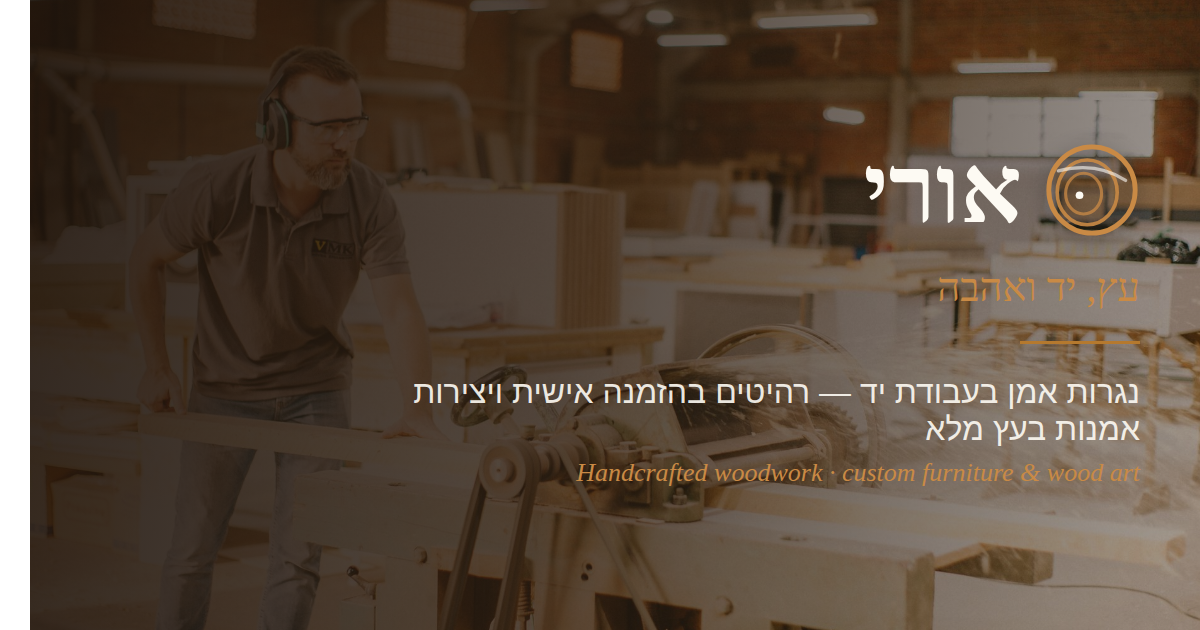
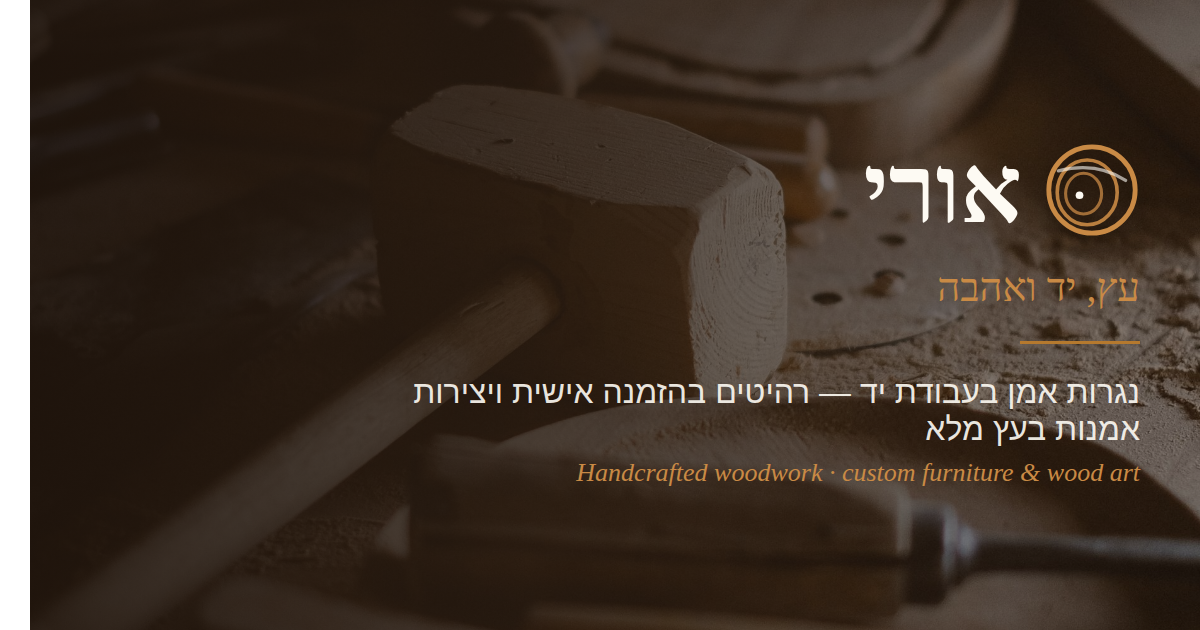
Enhancements + authenticity/audit fixes; wire real contact number
Interactive & polish:
- Gallery lightbox (click a piece → full viewer with prev/next, keyboard)
- Animated stat counters; subtle hero Ken-Burns zoom
- SEO: LocalBusiness JSON-LD, branded OG share image, Vercel Analytics
- apple-icon + favicon.ico (fixes the favicon 404)

Authenticity (per feedback — nothing false presented as Oori):
- Replaced hero/about photos with craft shots that show no identifiable
  people (chisel-on-wood hero, hands-at-work about)
- Removed the before/after slider (was the same image filtered); the
  component stays in the repo, ready to re-enable with a real photo pair

UX/audit:
- Centered header (3-column grid: brand · nav · actions)
- Wired the real business number (WhatsApp + phone); hide the email
  option until a real address is provided
- Fixed RTL rendering of the phone number (+972 …) via dir="ltr"
- Responsive audit: no horizontal overflow at 390/768/1440

Claude-Session: https://claude.ai/code/session_014Ns2YixfHNfaEv6P84c85A

diff --git a/components/Contact.tsx b/components/Contact.tsx
@@ -11,6 +11,7 @@ export function Contact({ dict }: { dict: Dict }) {
       ? 'שלום אורי, אשמח לקבל הצעת מחיר לפרויקט עבודת עץ.'
       : "Hi Oori, I'd love to get a quote for a woodworking project.";
 
+  const telDigits = siteConfig.contactPhone.replace(/[^\d+]/g, '');
   const cards = [
     {
       icon: 'whatsapp',
@@ -18,9 +19,13 @@ export function Contact({ dict }: { dict: Dict }) {
       value: siteConfig.contactPhone,
       href: whatsappLink(waMsg),
       accent: true,
+      ltr: true,
     },
-    { icon: 'phone', label: dict.contact.phoneLabel, value: siteConfig.contactPhone, href: `tel:${siteConfig.contactPhone}` },
-    { icon: 'mail', label: dict.contact.emailLabel, value: siteConfig.contactEmail, href: `mailto:${siteConfig.contactEmail}` },
+    { icon: 'phone', label: dict.contact.phoneLabel, value: siteConfig.contactPhone, href: `tel:${telDigits}`, ltr: true },
+    // Email card only shown when a real address is configured.
+    ...(siteConfig.contactEmail
+      ? [{ icon: 'mail', label: dict.contact.emailLabel, value: siteConfig.contactEmail, href: `mailto:${siteConfig.contactEmail}` }]
+      : []),
     { icon: 'location', label: dict.contact.locationLabel, value: dict.contact.location },
     { icon: 'clock', label: dict.contact.hoursLabel, value: dict.contact.hours },
   ];
@@ -41,7 +46,9 @@ export function Contact({ dict }: { dict: Dict }) {
                   <Icon name={c.icon} />
                 </span>
                 <span className="contact-card__label">{c.label}</span>
-                <span className="contact-card__value">{c.value}</span>
+                <span className="contact-card__value" dir={c.ltr ? 'ltr' : undefined}>
+                  {c.value}
+                </span>
               </>
             );
             return (

diff --git a/lib/config.ts b/lib/config.ts
@@ -1,15 +1,19 @@
 /**
  * Public site configuration. Values come from environment variables
- * (see .env.example) with safe placeholder fallbacks so the site runs
- * out of the box. Replace the fallbacks or set env vars for production.
+ * (see .env.example) with sensible fallbacks so the site runs out of the
+ * box. These fallbacks are the real, public business details.
  */
 export const siteConfig = {
-  whatsappNumber: process.env.NEXT_PUBLIC_WHATSAPP_NUMBER || '972500000000',
-  contactPhone: process.env.NEXT_PUBLIC_CONTACT_PHONE || '+972-50-000-0000',
-  contactEmail: process.env.NEXT_PUBLIC_CONTACT_EMAIL || 'oori@example.com',
+  // International format, no + or spaces (for wa.me links).
+  whatsappNumber: process.env.NEXT_PUBLIC_WHATSAPP_NUMBER || '972584075050',
+  contactPhone: process.env.NEXT_PUBLIC_CONTACT_PHONE || '+972 58-407-5050',
+  // Left empty until a real address is provided — the UI hides the email
+  // option when this is blank rather than showing a placeholder.
+  contactEmail: process.env.NEXT_PUBLIC_CONTACT_EMAIL || '',
   siteUrl: process.env.NEXT_PUBLIC_SITE_URL || 'http://localhost:3000',
-  instagram: 'https://instagram.com/',
-  facebook: 'https://facebook.com/',
+  // Social profiles — add real URLs to surface them in SEO/structured data.
+  instagram: process.env.NEXT_PUBLIC_INSTAGRAM || '',
+  facebook: process.env.NEXT_PUBLIC_FACEBOOK || '',
 } as const;
 
 /** Build a wa.me click-to-chat link with an optional prefilled message. */

diff --git a/components/Footer.tsx b/components/Footer.tsx
@@ -49,17 +49,19 @@ export function Footer({ dict, locale }: { dict: Dict; locale: Locale }) {
               </a>
             </li>
             <li>
-              <a href={`tel:${siteConfig.contactPhone}`}>
+              <a href={`tel:${siteConfig.contactPhone.replace(/[^\d+]/g, '')}`}>
                 <span className="site-footer__ico"><Icon name="phone" /></span>
-                {siteConfig.contactPhone}
+                <span dir="ltr">{siteConfig.contactPhone}</span>
               </a>
             </li>
-            <li>
-              <a href={`mailto:${siteConfig.contactEmail}`}>
-                <span className="site-footer__ico"><Icon name="mail" /></span>
-                {siteConfig.contactEmail}
-              </a>
-            </li>
+            {siteConfig.contactEmail && (
+              <li>
+                <a href={`mailto:${siteConfig.contactEmail}`}>
+                  <span className="site-footer__ico"><Icon name="mail" /></span>
+                  {siteConfig.contactEmail}
+                </a>
+              </li>
+            )}
           </ul>
         </div>
       </div>

diff --git a/content/media.ts b/content/media.ts
@@ -1,13 +1,13 @@
 /**
  * Central image manifest. All photos are self-hosted in /public/images
- * (sourced from Pexels, free to use). Swap any path for Oori's real
- * photos when ready — nothing else needs to change.
+ * (sourced from Pexels, free to use — none show identifiable people so
+ * nothing is falsely presented as Oori or his clients). Swap any path
+ * for Oori's real photos when ready — nothing else needs to change.
  */
 export const media = {
-  hero: '/images/hero.jpg',
-  about: '/images/about.jpg',
-  craftChisel: '/images/craft-chisel.jpg',
-  craftHands: '/images/craft-hands.jpg',
+  hero: '/images/hero.jpg', // chisel & mallet on wood
+  about: '/images/about.jpg', // hands at work (no face)
+  ctaBg: '/images/craft-shavings.jpg', // wood shavings on a bench
   // Gallery images, in display order (mapped onto dict.gallery.items).
   gallery: [
     '/images/work-furniture.jpg',

diff --git a/app/[locale]/layout.tsx b/app/[locale]/layout.tsx
@@ -87,6 +87,7 @@ export default async function LocaleLayout({
   const locale: Locale = raw;
   const dict = getDictionary(locale);
 
+  const sameAs = [siteConfig.instagram, siteConfig.facebook].filter(Boolean);
   const jsonLd = {
     '@context': 'https://schema.org',
     '@type': 'LocalBusiness',
@@ -95,10 +96,10 @@ export default async function LocaleLayout({
     image: `${siteConfig.siteUrl}/og.png`,
     url: `${siteConfig.siteUrl}/${locale}`,
     telephone: siteConfig.contactPhone,
-    email: siteConfig.contactEmail,
+    ...(siteConfig.contactEmail ? { email: siteConfig.contactEmail } : {}),
     areaServed: dict.contact.location,
     priceRange: '₪₪',
-    sameAs: [siteConfig.instagram, siteConfig.facebook],
+    ...(sameAs.length ? { sameAs } : {}),
   };
 
   return (

diff --git a/app/globals.css b/app/globals.css
@@ -258,9 +258,9 @@ p {
   box-shadow: 0 1px 0 var(--line), 0 12px 30px -26px rgba(74, 47, 28, 0.7);
 }
 .site-header__inner {
-  display: flex;
+  display: grid;
+  grid-template-columns: 1fr auto 1fr;
   align-items: center;
-  justify-content: space-between;
   gap: 1.5rem;
 }
 .brand {
@@ -268,6 +268,7 @@ p {
   align-items: center;
   gap: 0.65rem;
   color: var(--ink);
+  justify-self: start;
 }
 .brand__mark {
   color: var(--accent);
@@ -321,7 +322,7 @@ p {
 .site-nav {
   display: flex;
   gap: 1.75rem;
-  margin-inline-start: auto;
+  justify-self: center;
 }
 .site-nav__link {
   position: relative;
@@ -348,6 +349,7 @@ p {
   display: flex;
   align-items: center;
   gap: 0.9rem;
+  justify-self: end;
 }
 .lang-toggle {
   border: 1px solid var(--border);

diff --git a/app/[locale]/page.tsx b/app/[locale]/page.tsx
@@ -6,7 +6,6 @@ import Marquee from '@/components/Marquee';
 import About from '@/components/About';
 import Services from '@/components/Services';
 import Gallery from '@/components/Gallery';
-import BeforeAfter from '@/components/BeforeAfter';
 import Process from '@/components/Process';
 import CtaBand from '@/components/CtaBand';
 import Values from '@/components/Values';
@@ -28,7 +27,6 @@ export default async function Home({ params }: { params: Promise<{ locale: strin
       <About dict={dict} />
       <Services dict={dict} />
       <Gallery dict={dict} />
-      <BeforeAfter dict={dict} />
       <Process dict={dict} />
       <CtaBand dict={dict} />
       <Values dict={dict} />

diff --git a/components/CtaBand.tsx b/components/CtaBand.tsx
@@ -8,7 +8,7 @@ export function CtaBand({ dict }: { dict: Dict }) {
     <section className="cta-band">
       <div
         className="cta-band__bg"
-        style={{ backgroundImage: `url(${media.craftChisel})` }}
+        style={{ backgroundImage: `url(${media.ctaBg})` }}
         aria-hidden
       />
       <div className="cta-band__scrim" aria-hidden />

diff --git a/README.md b/README.md
@@ -21,11 +21,13 @@ and a lead pipeline that can save to **Supabase**, email via **Resend**, and off
   1. **Saves to Supabase** (if configured),
   2. **Emails Oori** via Resend (if configured),
   3. Always offers a **prefilled WhatsApp** message as a fallback.
-- **Real photography** — self-hosted in `/public/images` (Pexels, free to use); swap for Oori's own
-  photos anytime via `content/media.ts`.
+- **Real photography** — self-hosted in `/public/images` (Pexels, free to use; no identifiable people,
+  so nothing is falsely presented as Oori); swap for Oori's own photos anytime via `content/media.ts`.
 - **Interactive gallery** — click any piece for a full lightbox with prev/next.
-- **Before/After slider** — drag-to-reveal restoration comparison.
 - **Animated stat counters** + a subtle hero Ken-Burns zoom.
+- **Before/After slider** — a drag-to-reveal restoration comparison component
+  (`components/BeforeAfter.tsx`) is built and ready; re-enable it in `app/[locale]/page.tsx`
+  once a real before/after photo pair is available.
 - **Custom tree-ring logo** (header, footer, favicon) + a branded social-share image (`/public/og.png`).
 - **SEO & analytics** — per-locale metadata, Open Graph image, LocalBusiness structured data,
   `sitemap.xml`, `robots.txt`, and Vercel Analytics (auto-active once deployed on Vercel).
